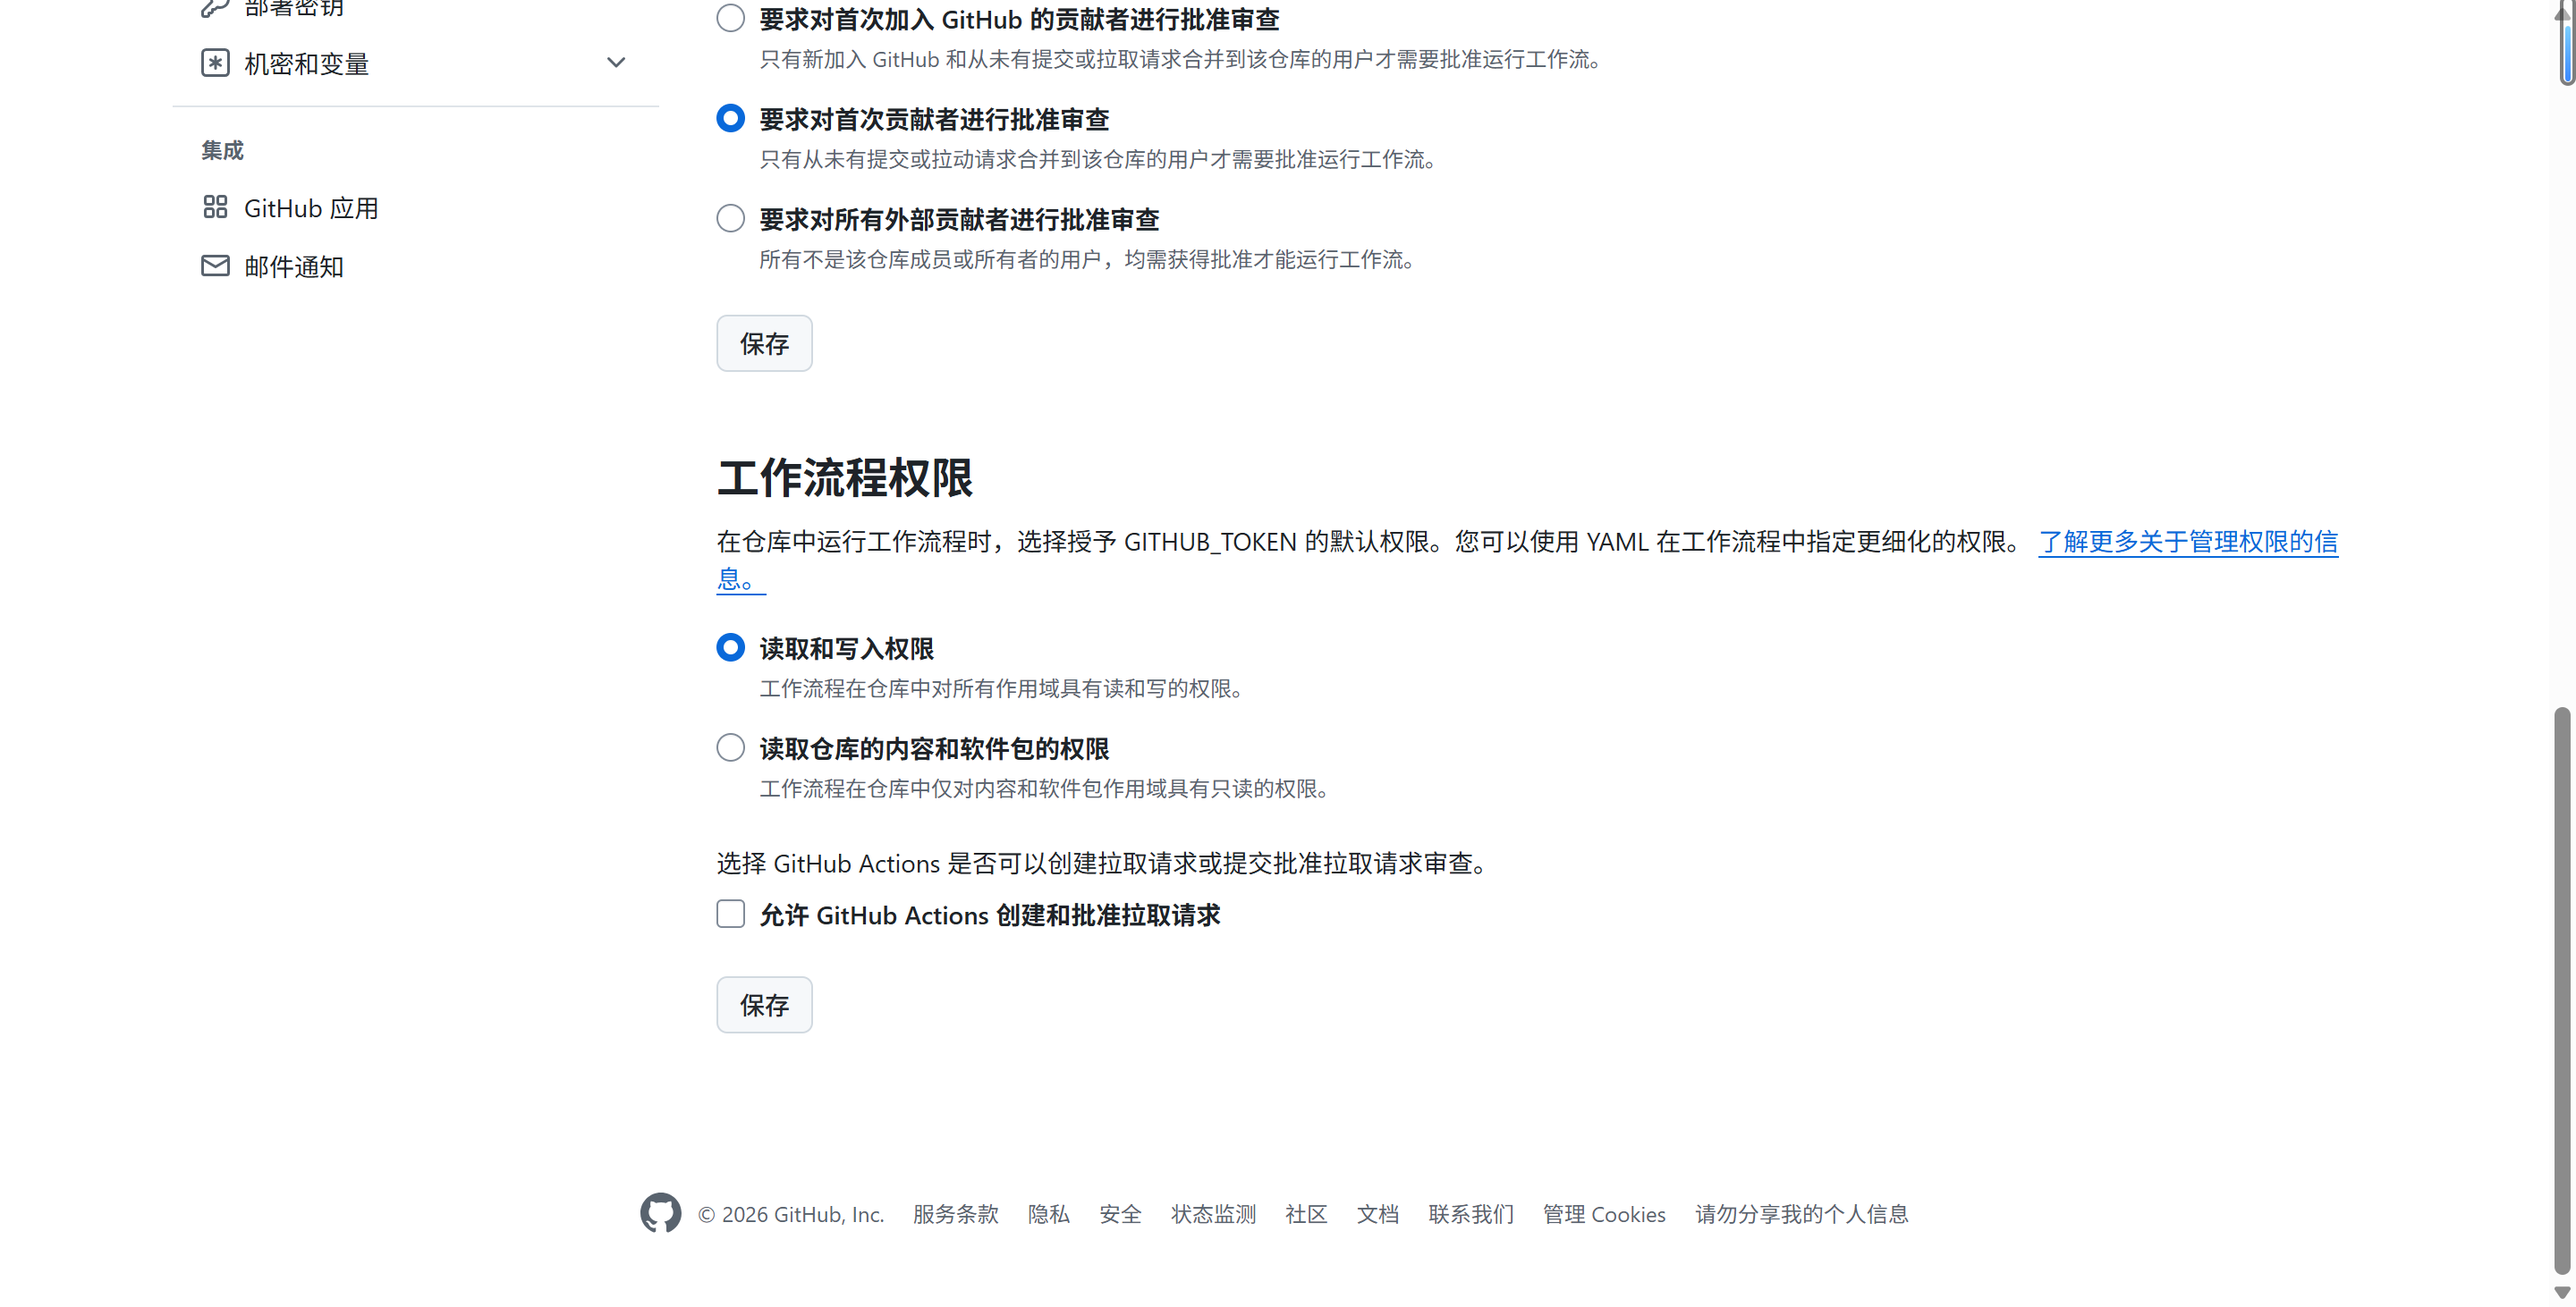
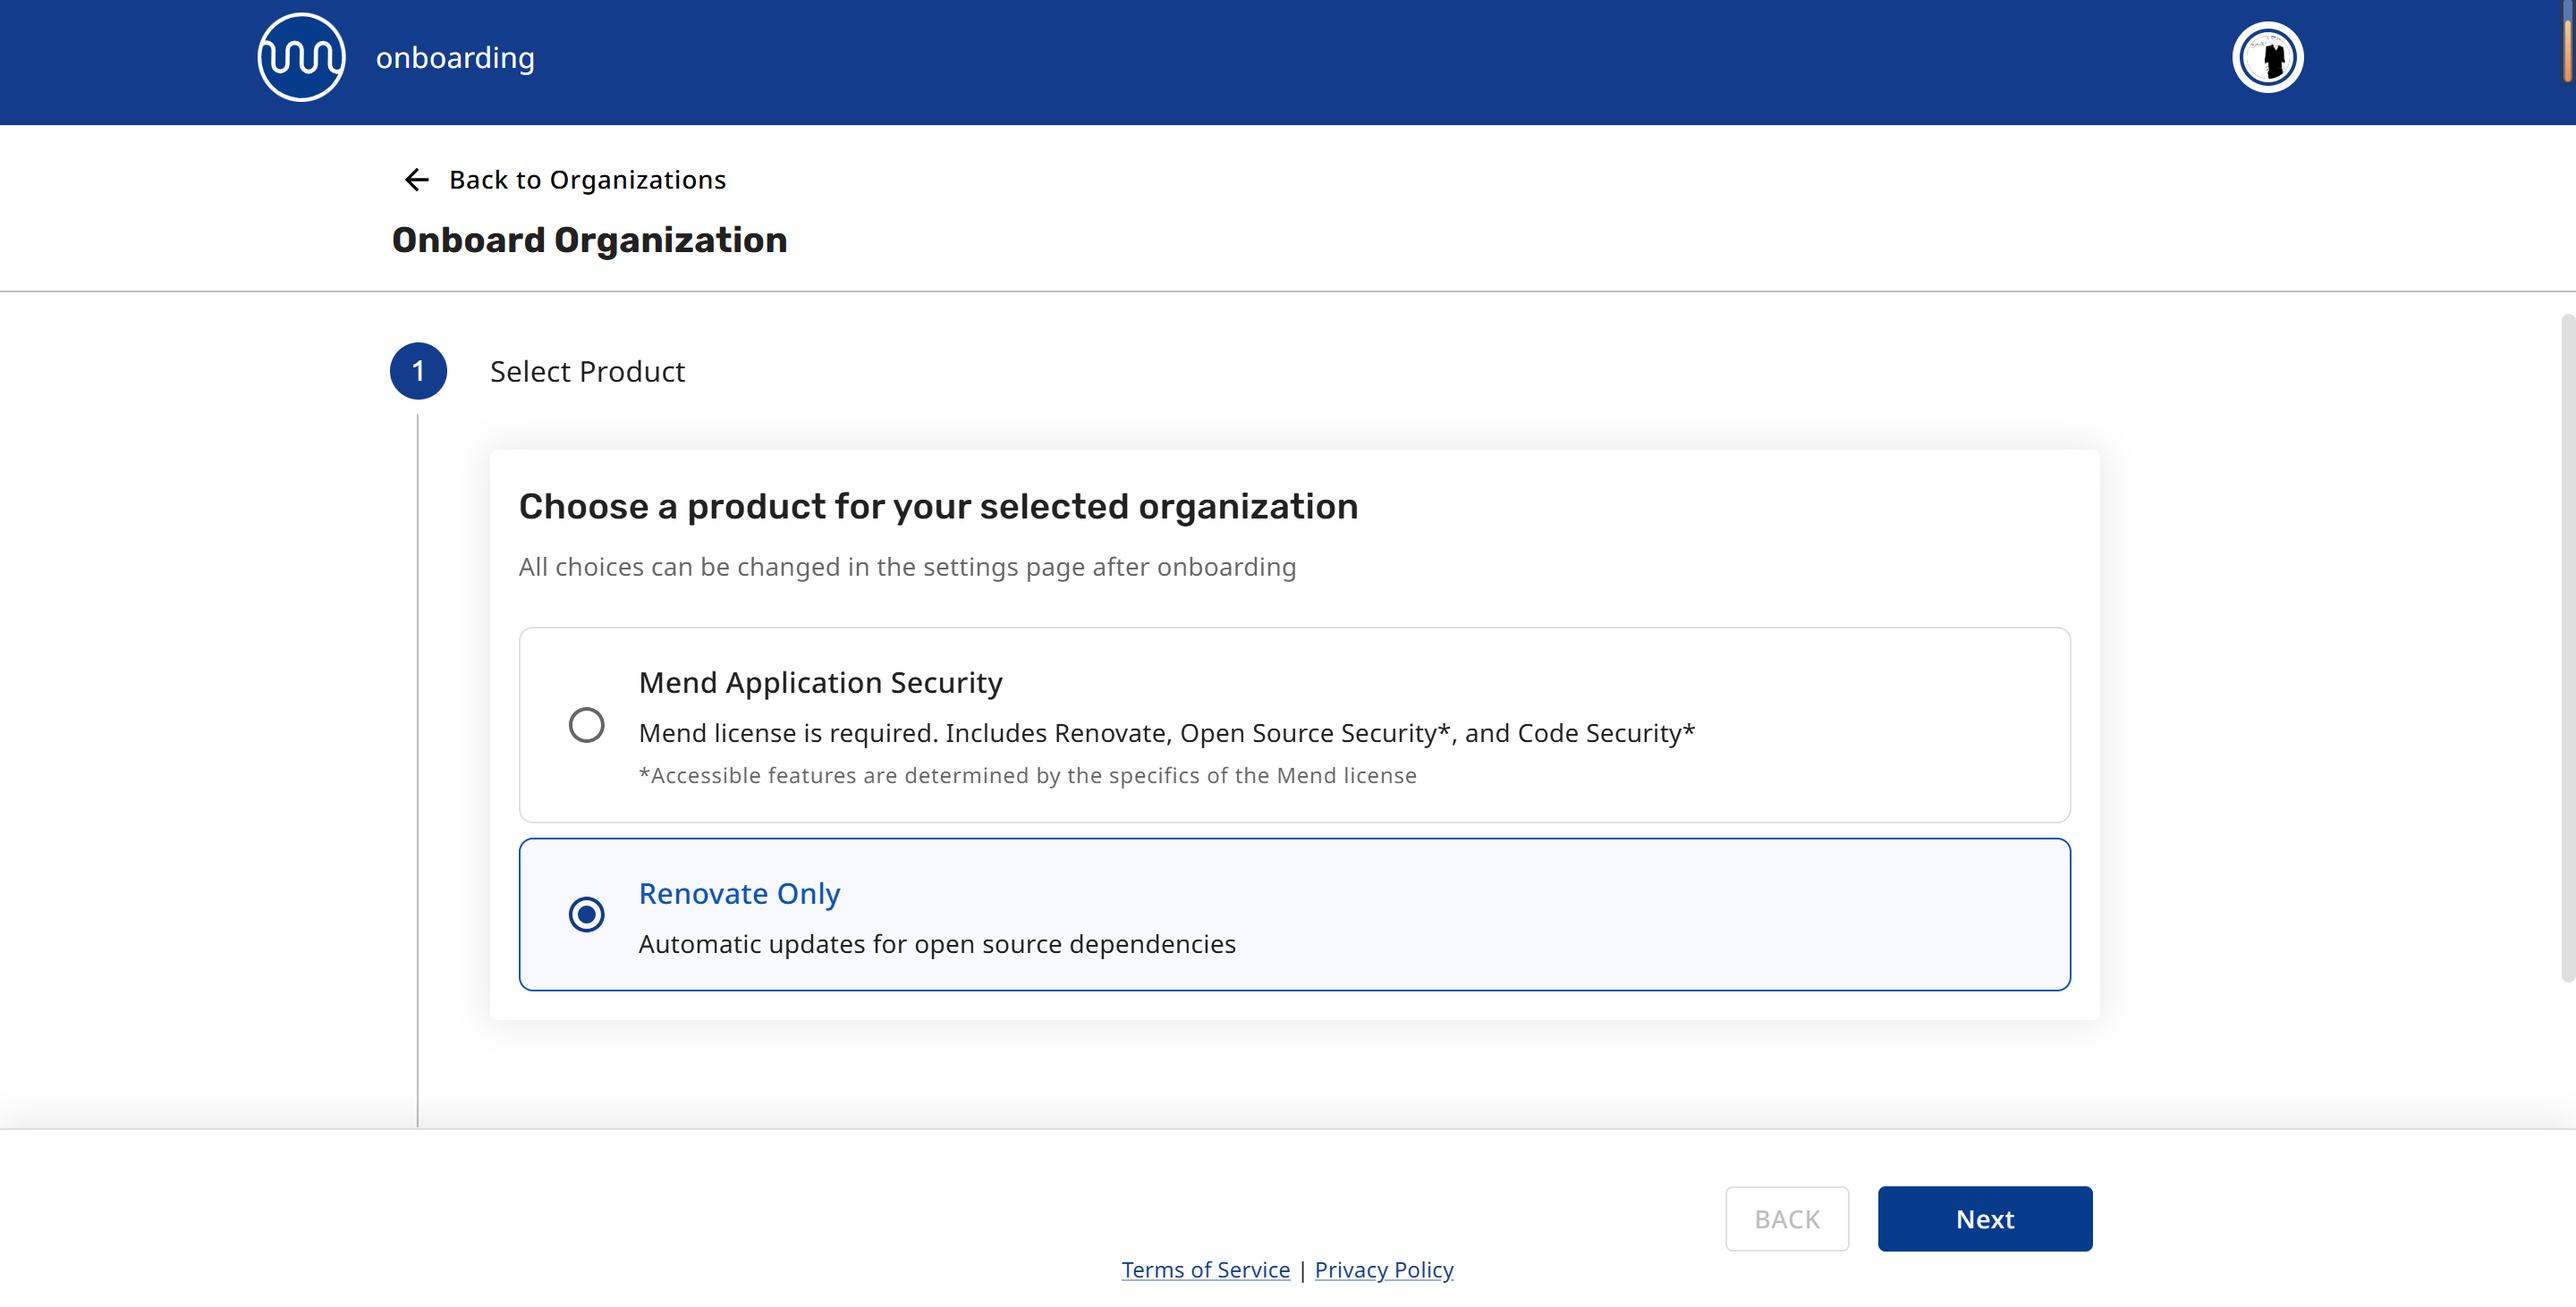
1

diff --git a/README.md b/README.md
@@ -22,9 +22,9 @@ https://github.com/apps/renovate
 
 ![alt text](docs/image.png)
 
-## 给予github actions 工作流写入权限
-
 ![alt text](docs/image-1.png)
+
+![alt text](docs/image-2.png)
 
 # 创建应用模板
 
